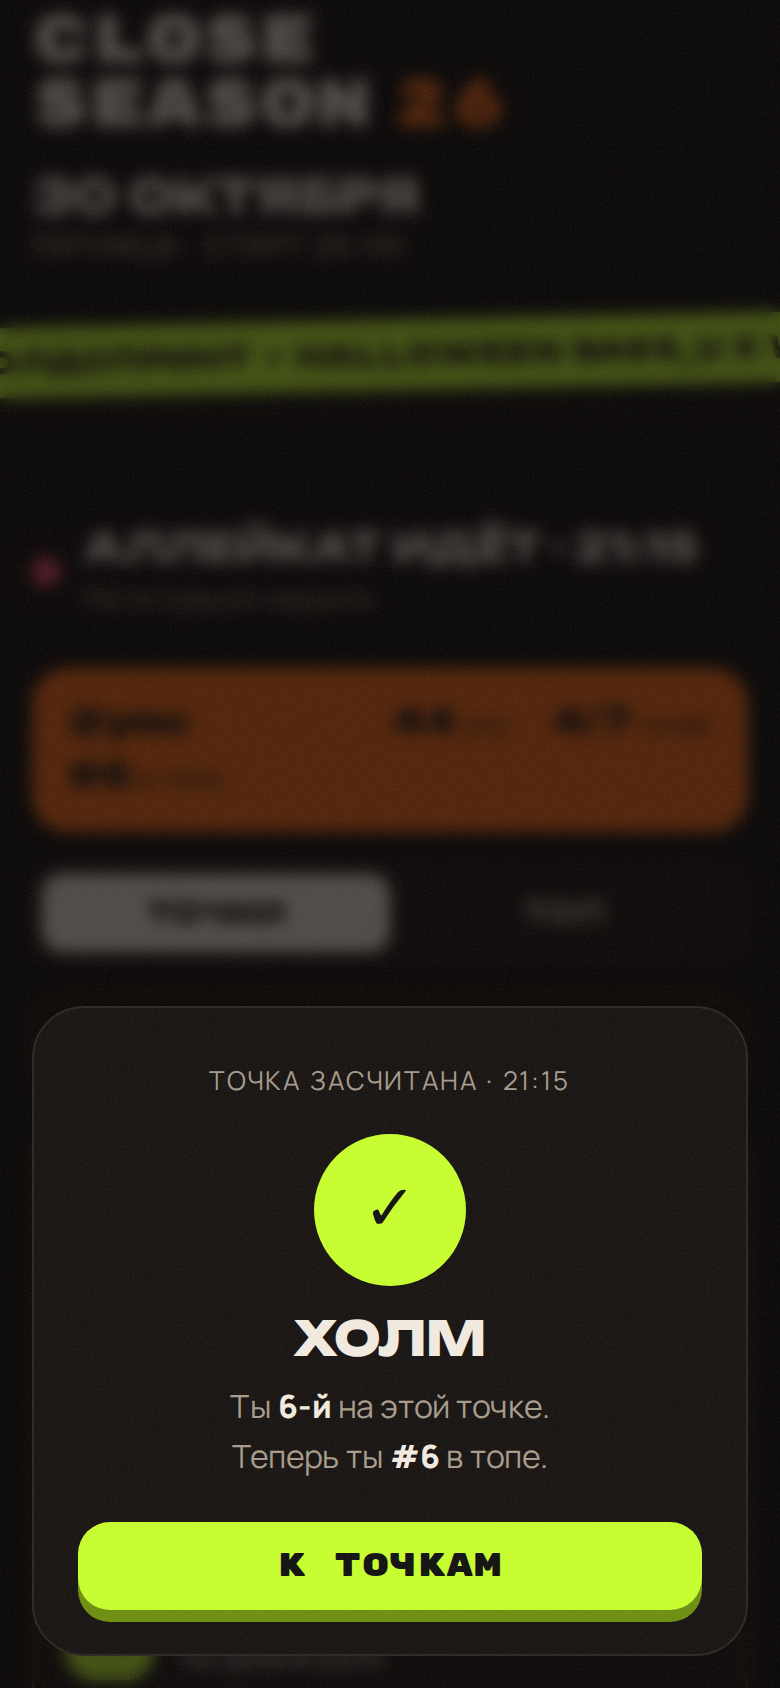
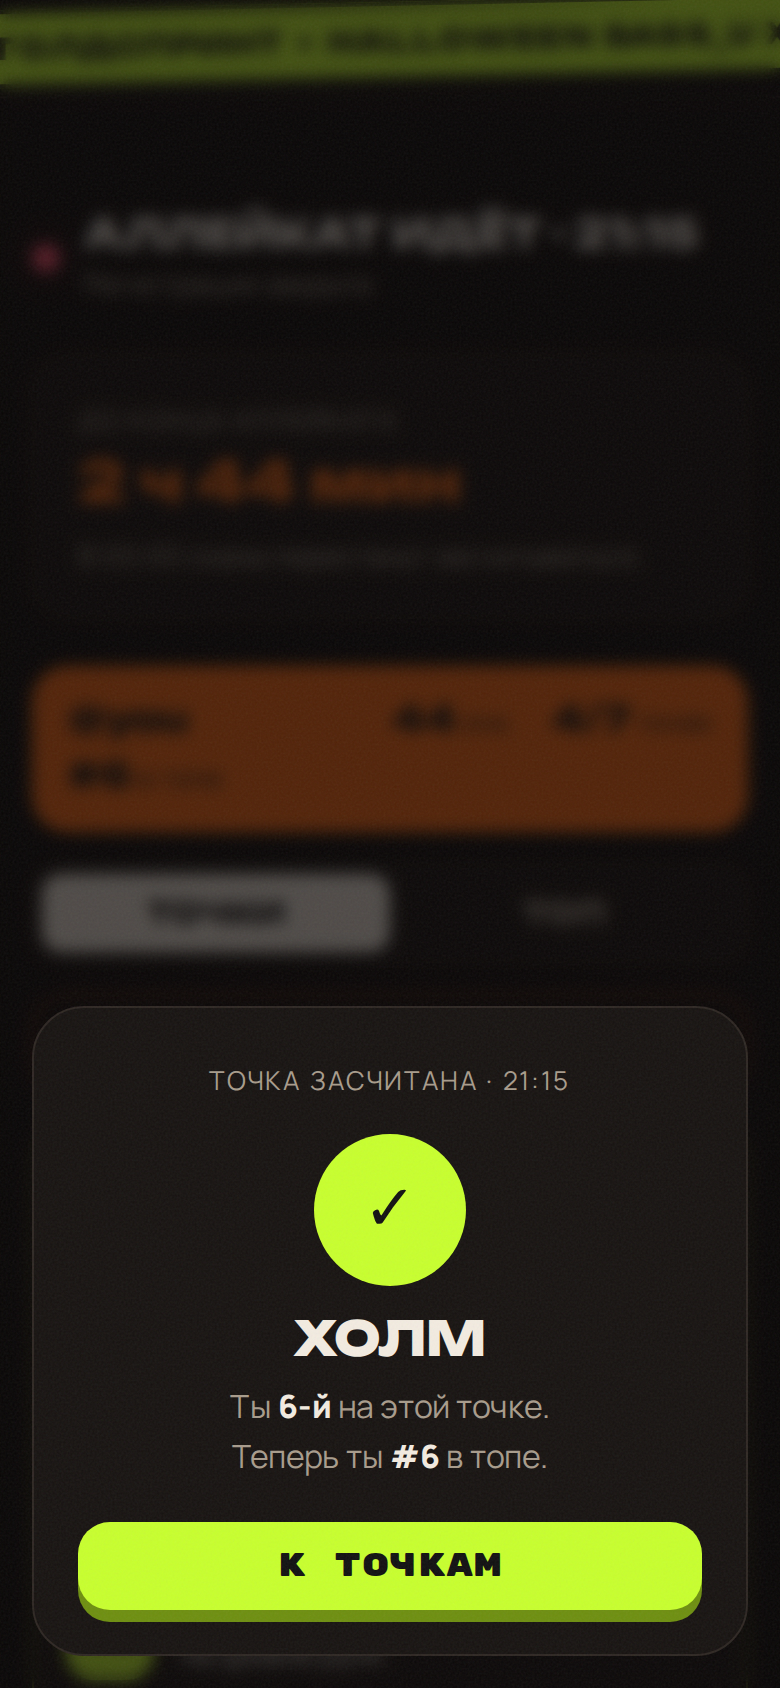
Обратный отсчёт до конца аллейката (00:00)
- «Конец» в настройках; после него сканы не принимаются (тестовые работают)
- на сайте «До конца аллейката …», после конца «Аллейкат завершён»
- карточка финиша: пометка «отмечается последним»; в карточках без очков

Claude-Session: https://claude.ai/code/session_0122weFEyBkPzVmy7e3pz2TB

diff --git a/app.js b/app.js
@@ -121,7 +121,7 @@
       },
       async state() {
         const t = mode === "reg" || mode === "pay" ? Date.now() : at(75);
-        const s = { now: t, start: START, radius: R.radius, open: t >= START };
+        const s = { now: t, start: START, end: Date.parse(R.end), radius: R.radius, open: t >= START };
         if (s.open) Object.assign(s, { checkpoints: R.checkpoints, leaderboard: board() });
         return s;
       },
@@ -252,8 +252,27 @@
     $("countdown").textContent = d + " д " + String(h).padStart(2, "0") + " ч " + String(m).padStart(2, "0") + " мин";
   }
 
+  // «2 ч 05 мин» / «3 д 04 ч 12 мин»
+  function fmtLeft(ms) {
+    const d = Math.floor(ms / (24 * 60 * MIN));
+    const h = Math.floor((ms / (60 * MIN)) % 24);
+    const m = Math.floor((ms / MIN) % 60);
+    return (d ? d + " д " : "") + (d || h ? String(h).padStart(d ? 2 : 1, "0") + " ч " : "") + String(m).padStart(2, "0") + " мин";
+  }
+
+  const raceEnded = () => state && state.end && now() >= state.end;
+
   function renderRace() {
     $("race-clock").textContent = fmtTime(now());
+    const ended = raceEnded();
+    $("live").classList.toggle("is-ended", Boolean(ended));
+    $("live-text").firstChild.textContent = ended ? "Аллейкат завершён · " : "Аллейкат идёт · ";
+    $("live-sub").textContent = ended ? "Итоги ниже, во вкладке «Топ»" : "Регистрация закрыта";
+    $("end-countdown").hidden = !state.end || ended;
+    if (state.end && !ended) {
+      $("end-left").textContent = fmtLeft(state.end - now());
+      $("end-time").textContent = fmtTime(state.end);
+    }
     $("race-join").hidden = Boolean(user);
     $("me").hidden = !user;
     if (user) renderMe();
@@ -291,13 +310,14 @@
             : "") +
           '<span class="cp__value" title="ценность точки">×' + c.value + "</span>" +
           '<div class="cp__body">' +
-          (c.final ? '<span class="cp__flag">финиш · отмечается последним</span>' : "") +
+          (c.final ? '<span class="cp__flag">финиш</span>' : "") +
           "<h3>" + esc(c.name) + "</h3>" +
+          (c.final ? '<p class="cp__desc">Отмечается последним: после финиша точки не засчитываются.</p>' : "") +
           (c.description ? '<p class="cp__desc">' + esc(c.description) + "</p>" : "") +
           '<a class="cp__map" href="' + map + '" target="_blank" rel="noopener">на карте ↗</a>' +
           "</div>" +
           '<span class="cp__status">' +
-            (t ? "✓ " + fmtTime(t[0]) + (t[1] ? " · " + t[1] + "-й · +" + t[2] : "")
+            (t ? "✓ " + fmtTime(t[0]) + (t[1] ? " · " + t[1] + "-й" : "")
               : user ? "не взята" : "") + "</span>" +
           "</li>"
         );
@@ -447,6 +467,7 @@
 
   async function scan(cp, k, fakePosition) {
     if (testKey) return testScan(cp, k);
+    if (raceEnded()) return showSheet("far", cpName(cp), "Аллейкат закончился, сканы больше не принимаются.", "Финиш гонки", "⏱");
     if (!raceOn()) return showSheet("far", "Ещё рано", "Сканы засчитываются с момента старта.", "До старта", "⏳");
     const name = cpName(cp);
     if (!user) {

diff --git a/index.html b/index.html
@@ -9,7 +9,7 @@
   <link rel="preconnect" href="https://fonts.googleapis.com">
   <link rel="preconnect" href="https://fonts.gstatic.com" crossorigin>
   <link href="https://fonts.googleapis.com/css2?family=Rubik+Mono+One&family=Unbounded:wght@500;800&family=Manrope:wght@400;600;800&display=swap" rel="stylesheet">
-  <link rel="stylesheet" href="style.css?v=202610071015">
+  <link rel="stylesheet" href="style.css?v=202610071018">
 </head>
 <body>
   <div class="grain" aria-hidden="true"></div>
@@ -161,10 +161,16 @@
 
     <!-- ===== со старта: гонка ===== -->
     <div class="view" id="race-view" hidden>
-      <section class="live">
+      <section class="live" id="live">
         <span class="live__dot" aria-hidden="true"></span>
-        <p class="live__text">Аллейкат идёт · <span id="race-clock">21:00</span></p>
-        <p class="live__sub">Регистрация закрыта</p>
+        <p class="live__text" id="live-text">Аллейкат идёт · <span id="race-clock">20:00</span></p>
+        <p class="live__sub" id="live-sub">Регистрация закрыта</p>
+      </section>
+
+      <section class="countdown countdown--race" id="end-countdown" hidden>
+        <p class="countdown__label">До конца аллейката</p>
+        <p class="countdown__value" id="end-left">…</p>
+        <p class="countdown__note">В <span id="end-time">00:00</span> сканы перестанут засчитываться.</p>
       </section>
 
       <!-- гость: точки видны, но сканы не засчитываются -->
@@ -240,8 +246,8 @@
     <p>FGK CloseSeason 26 · 18+</p>
   </footer>
 
-  <script src="config.js?v=202610071015"></script>
-  <script src="data.js?v=202610071015"></script>
-  <script src="app.js?v=202610071015"></script>
+  <script src="config.js?v=202610071018"></script>
+  <script src="data.js?v=202610071018"></script>
+  <script src="app.js?v=202610071018"></script>
 </body>
 </html>

diff --git a/server/test/server.test.js b/server/test/server.test.js
@@ -190,6 +190,22 @@ const NEW_HEAD=["ID","Название","Координаты","Ценность
   assert.equal(JSON.parse(g9.ctx.doGet({parameter:{action:'state'}}).s).leaderboard[0].score,50);
 }
 
+// конец аллейката: после него сканы не принимаются, тестовые работают
+{ const {load:l10}=require('./gas-mock'); const g=l10(); g.ctx.setup();
+  const set=(k,v)=>g.sheets['Настройки'].data.find(r=>r[0]===k)[1]=v;
+  assert.ok(g.sheets['Настройки'].data.find(r=>r[0]==='Конец'),'setup добавил «Конец»');
+  set('Старт',new Date(Date.now()+3600e3).toISOString());
+  const post=b=>JSON.parse(g.ctx.doPost({postData:{contents:JSON.stringify(b)}}).s);
+  post({action:'register',telegram:'late_rider',gender:'М',payment:'x'});
+  set('Старт',new Date(Date.now()-7200e3).toISOString()); set('Конец',new Date(Date.now()-1000).toISOString());
+  const st=JSON.parse(g.ctx.doGet({parameter:{action:'state'}}).s); assert.ok(st.end<Date.now()); assert.equal(st.open,true);
+  const c1=g.sheets['Точки'].data.find(r=>r[0]==='c1'); const [la,ln]=c1[2].split(',').map(Number);
+  assert.match(post({action:'scan',nick:'late_rider',cp:'c1',k:c1[5],lat:la,lng:ln}).error,/закончился/);
+  const key=g.sheets['Настройки'].data.find(r=>r[0]==='Ключ администратора')[1];
+  assert.equal(post({action:'scan',test:key,cp:'c1',k:c1[5],lat:la,lng:ln}).ok,true,'тест работает и после конца');
+  set('Конец',''); assert.equal(JSON.parse(g.ctx.doGet({parameter:{action:'state'}}).s).end,null,'без конца - не ограничено');
+}
+
 // без setup - понятная ошибка
 { const {load:l3}=require('./gas-mock'); const g3=l3();
   assert.match(JSON.parse(g3.ctx.doGet({parameter:{action:'state'}}).s).error,/setup/); }

diff --git a/data.js b/data.js
@@ -1,8 +1,9 @@
 // ДЕМО-ДАННЫЕ: используются, только когда в config.js не задан apiUrl
 // (или в адресе есть ?demo=…). Рабочие точки и сканы живут в Google Таблице.
 window.RACE = {
-  // старт аллейката = закрытие регистрации (время московское)
+  // старт аллейката = закрытие регистрации, конец - сканы больше не принимаются (МСК)
   start: "2026-10-30T20:00:00+03:00",
+  end: "2026-10-31T00:00:00+03:00",
   // скан засчитывается, если телефон не дальше этого радиуса от точки, м
   radius: 150,
 

diff --git a/style.css b/style.css
@@ -381,6 +381,8 @@ h1, h2, h3 { margin: 0; }
 @keyframes pulse { 70% { box-shadow: 0 0 0 12px rgba(255,77,109,0); } 100% { box-shadow: 0 0 0 0 rgba(255,77,109,0); } }
 .live__text { margin: 0; font: 800 20px/1.2 var(--head); text-transform: uppercase; }
 .live__sub { margin: 0; color: var(--muted); font-size: 14px; }
+.live.is-ended .live__dot { background: var(--muted); animation: none; }
+.countdown--race { margin: 0; }
 
 /* ---------- race: join ---------- */
 .join {
